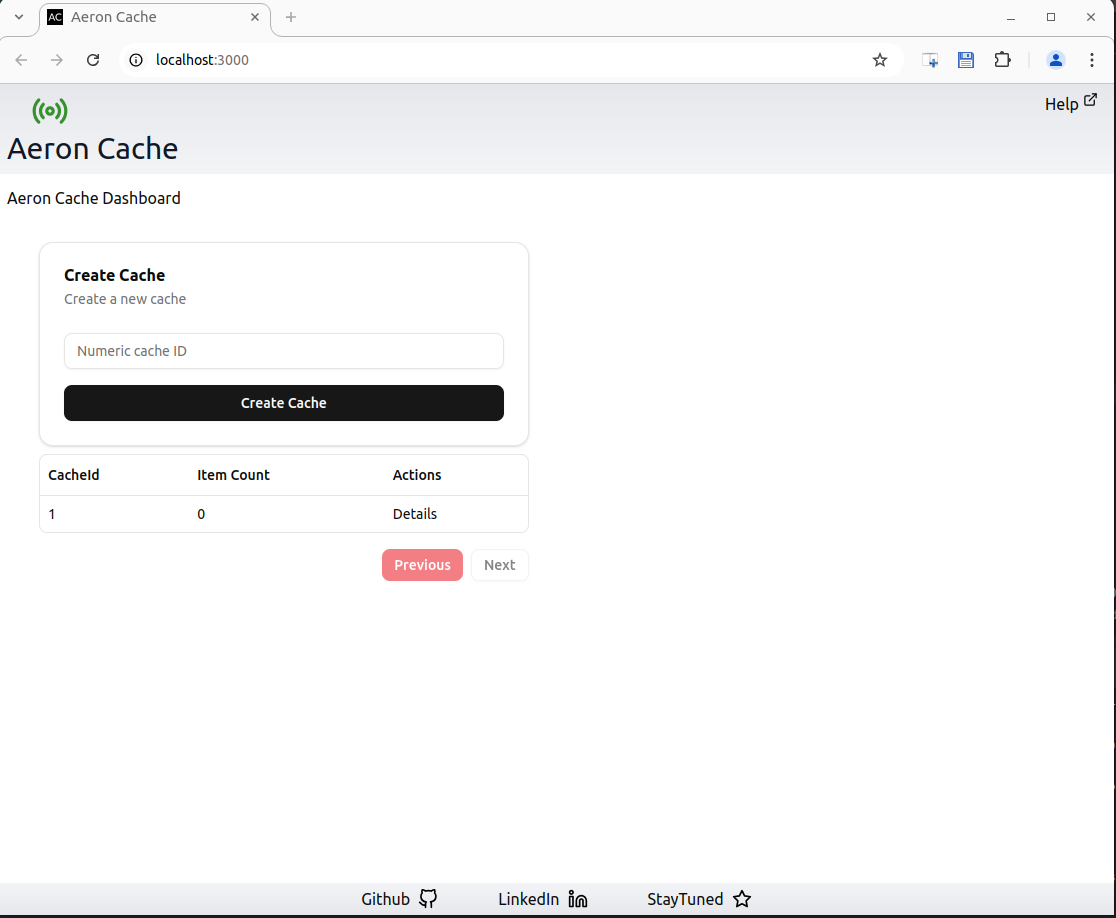
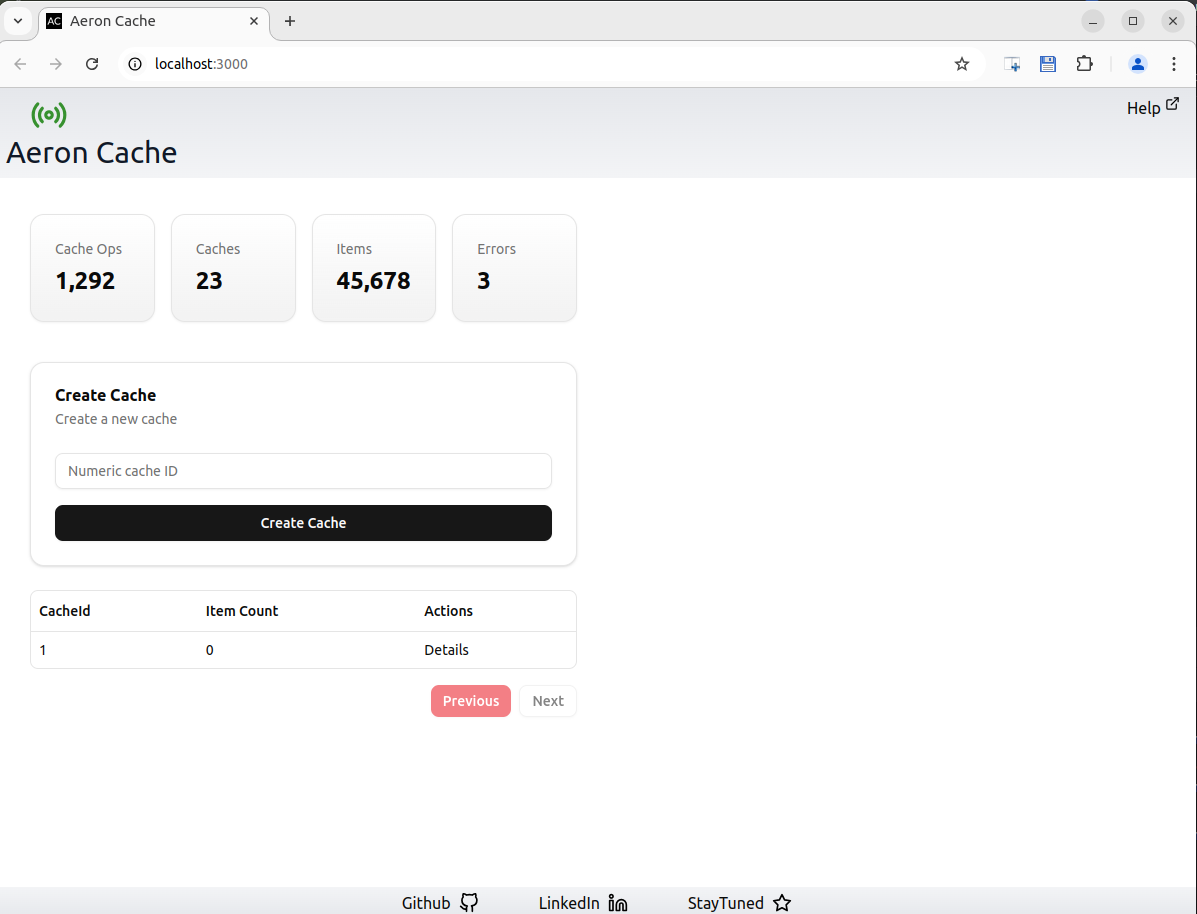
Basic dashboard cards

diff --git a/cache-ui/nextjs/src/app/page.tsx b/cache-ui/nextjs/src/app/page.tsx
@@ -2,6 +2,7 @@ import {allCachesColumns} from "@/components/cache-summary/AllCachesColumns";
 import {AllCachesDataTable} from "@/components/cache-summary/AllCachesTable";
 import CreateCacheRequest from "@/components/CreateCache";
 import {Card, CardContent, CardDescription, CardHeader, CardTitle,} from "@/components/ui/card"
+import {DashboardStats} from "@/app/dashboard/dashboard-stats";
 
 
 /**
@@ -27,27 +28,32 @@ function CreateCache() {
 
 export default async function Page() {
 
-  return (
-      <div>
-        <h1>Aeron Cache Dashboard</h1>
-          <div className="pt-8">
-              <div className="pb-2 px-8 md:w-1/2">
-                  <Card>
+    return (
+        <div>
+            <div className="flex flex-1 flex-col">
+                <div className="@container/main flex flex-1 flex-col gap-2">
+                    <div className="flex flex-col gap-4 py-4 md:w-1/2 md:gap-6 md:py-6">
+                        <DashboardStats/>
+                    </div>
+                </div>
+            </div>
+            <div className="pt-4">
+                <div className="pb-6 px-6 md:w-1/2">
+                    <Card>
+                        <CardHeader>
+                            <CardTitle>Create Cache</CardTitle>
+                            <CardDescription>Create a new cache</CardDescription>
+                        </CardHeader>
+                        <CardContent>
+                            <CreateCache/>
+                        </CardContent>
+                    </Card>
 
-                      <CardHeader>
-                          <CardTitle>Create Cache</CardTitle>
-                          <CardDescription>Create a new cache</CardDescription>
-                      </CardHeader>
-                      <CardContent>
-                          <CreateCache/>
-                      </CardContent>
-                  </Card>
-
-              </div>
-              <div className="pb-2 px-8 md:w-1/2">
-                  <CacheTable/>
-              </div>
-          </div>
-      </div>
-  )
+                </div>
+                <div className="pb-2 px-6 md:w-1/2">
+                    <CacheTable/>
+                </div>
+            </div>
+        </div>
+    )
 }

diff --git a/cache-ui/nextjs/src/app/dashboard/dashboard-stats.tsx b/cache-ui/nextjs/src/app/dashboard/dashboard-stats.tsx
@@ -1,0 +1,41 @@
+import {Card, CardDescription, CardHeader, CardTitle,} from "@/components/ui/card"
+
+export function DashboardStats() {
+    return (
+        <div className="*:data-[slot=card]:shadow-xs @xl/main:grid-cols-2 @5xl/main:grid-cols-4 grid grid-cols-1 gap-4 px-4 *:data-[slot=card]:bg-gradient-to-t *:data-[slot=card]:from-primary/5 *:data-[slot=card]:to-card dark:*:data-[slot=card]:bg-card lg:px-6">
+            <Card className="@container/card">
+                <CardHeader className="relative">
+                    <CardDescription>Cache Ops</CardDescription>
+                    <CardTitle className="@[250px]/card:text-3xl text-2xl font-semibold tabular-nums">
+                        1,292
+                    </CardTitle>
+                </CardHeader>
+
+            </Card>
+            <Card className="@container/card">
+                <CardHeader className="relative">
+                    <CardDescription>Caches</CardDescription>
+                    <CardTitle className="@[250px]/card:text-3xl text-2xl font-semibold tabular-nums">
+                        23
+                    </CardTitle>
+                </CardHeader>
+            </Card>
+            <Card className="@container/card">
+                <CardHeader className="relative">
+                    <CardDescription>Items</CardDescription>
+                    <CardTitle className="@[250px]/card:text-3xl text-2xl font-semibold tabular-nums">
+                        45,678
+                    </CardTitle>
+                </CardHeader>
+            </Card>
+            <Card className="@container/card">
+                <CardHeader className="relative">
+                    <CardDescription>Errors</CardDescription>
+                    <CardTitle className="@[250px]/card:text-3xl text-2xl font-semibold tabular-nums">
+                        3
+                    </CardTitle>
+                </CardHeader>
+            </Card>
+        </div>
+    )
+}

diff --git a/cache-ui/nextjs/src/components/ui/badge.tsx b/cache-ui/nextjs/src/components/ui/badge.tsx
@@ -1,0 +1,46 @@
+import * as React from "react"
+import { Slot } from "@radix-ui/react-slot"
+import { cva, type VariantProps } from "class-variance-authority"
+
+import { cn } from "@/lib/utils"
+
+const badgeVariants = cva(
+  "inline-flex items-center justify-center rounded-md border px-2 py-0.5 text-xs font-medium w-fit whitespace-nowrap shrink-0 [&>svg]:size-3 gap-1 [&>svg]:pointer-events-none focus-visible:border-ring focus-visible:ring-ring/50 focus-visible:ring-[3px] aria-invalid:ring-destructive/20 dark:aria-invalid:ring-destructive/40 aria-invalid:border-destructive transition-[color,box-shadow] overflow-hidden",
+  {
+    variants: {
+      variant: {
+        default:
+          "border-transparent bg-primary text-primary-foreground [a&]:hover:bg-primary/90",
+        secondary:
+          "border-transparent bg-secondary text-secondary-foreground [a&]:hover:bg-secondary/90",
+        destructive:
+          "border-transparent bg-destructive text-white [a&]:hover:bg-destructive/90 focus-visible:ring-destructive/20 dark:focus-visible:ring-destructive/40 dark:bg-destructive/60",
+        outline:
+          "text-foreground [a&]:hover:bg-accent [a&]:hover:text-accent-foreground",
+      },
+    },
+    defaultVariants: {
+      variant: "default",
+    },
+  }
+)
+
+function Badge({
+  className,
+  variant,
+  asChild = false,
+  ...props
+}: React.ComponentProps<"span"> &
+  VariantProps<typeof badgeVariants> & { asChild?: boolean }) {
+  const Comp = asChild ? Slot : "span"
+
+  return (
+    <Comp
+      data-slot="badge"
+      className={cn(badgeVariants({ variant }), className)}
+      {...props}
+    />
+  )
+}
+
+export { Badge, badgeVariants }
